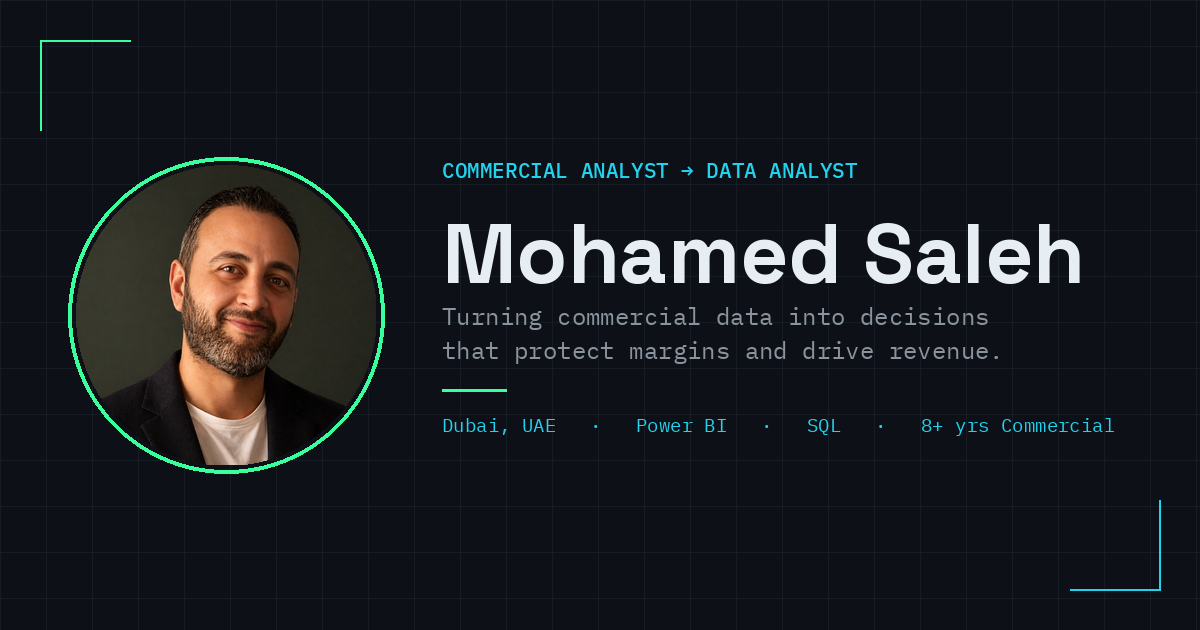
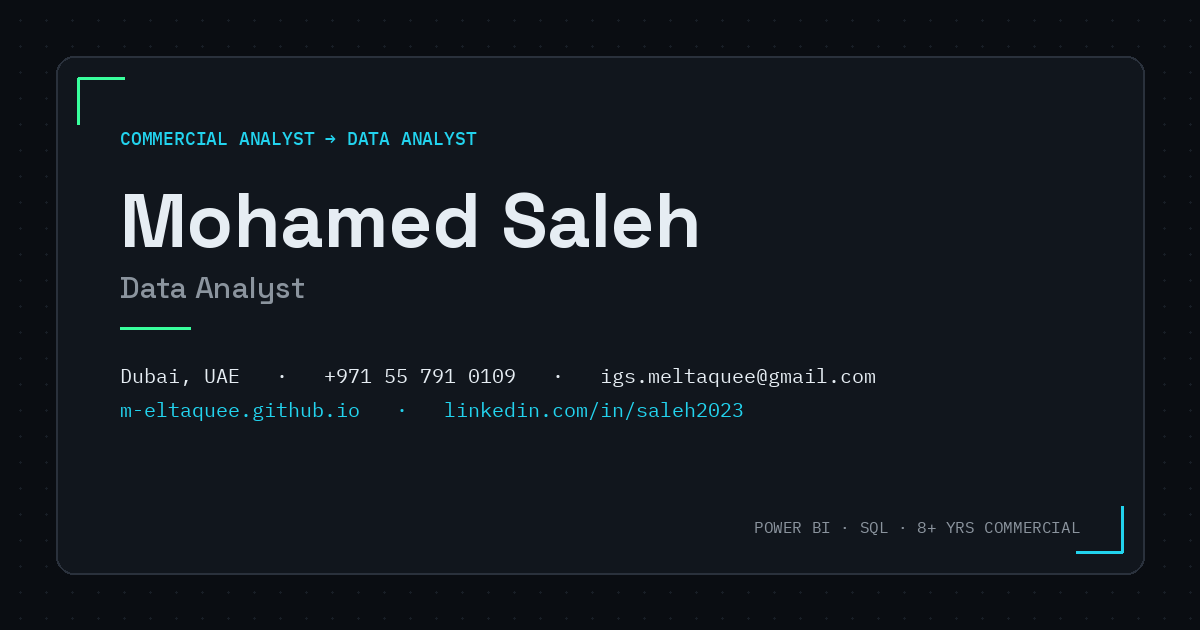
simplify sidebar, business-card OG image

diff --git a/index.html b/index.html
@@ -232,8 +232,7 @@ main{
     <button class="theme-btn" id="themeToggle" aria-label="Toggle theme">◐</button>
     <div class="side-photo"><img src="assets/img/photo_circle.png" alt="Mohamed Saleh"></div>
     <p class="side-name">Mohamed Saleh</p>
-    <p class="side-role">Commercial Analyst → Data Analyst</p>
-    <p class="side-desc">8+ years turning commercial data into decisions across telecom, chemical manufacturing, and luxury retail. Dubai, UAE.</p>
+    <p class="side-role">Data Analyst</p>
 
     <div class="side-socials">
       <a href="mailto:igs.meltaquee@gmail.com" aria-label="Email">@</a>
@@ -241,14 +240,6 @@ main{
       <a href="https://github.com/M-Eltaquee" target="_blank" rel="noopener" aria-label="GitHub">gh</a>
       <a href="tel:+971557910109" aria-label="Phone">☎</a>
     </div>
-
-    <ul class="side-nav" id="sideNav">
-      <li class="active" data-target="about"><button><span class="idx">01</span>About</button></li>
-      <li data-target="experience"><button><span class="idx">02</span>Experience</button></li>
-      <li data-target="skills"><button><span class="idx">03</span>Skills</button></li>
-      <li data-target="projects"><button><span class="idx">04</span>Projects</button></li>
-      <li data-target="contact"><button><span class="idx">05</span>Contact</button></li>
-    </ul>
 
     <div class="side-spacer"></div>
     <a class="btn-cv" href="assets/Mohamed_Saleh_CV.pdf" target="_blank" rel="noopener">↓ Download Resume</a>
@@ -394,20 +385,16 @@ main{
 })();
 
 (function(){
-  const navItems = document.querySelectorAll('#sideNav li');
   const panels = document.querySelectorAll('.acc-item');
 
   function activate(name){
-    navItems.forEach(li => li.classList.toggle('active', li.dataset.target === name));
     panels.forEach(p => p.classList.toggle('active', p.dataset.panel === name));
     if(name === 'skills'){
       document.querySelectorAll('.meter-fill').forEach(f => { f.style.width = f.dataset.w + '%'; });
     }
   }
-  navItems.forEach(li => li.querySelector('button').addEventListener('click', () => activate(li.dataset.target)));
   panels.forEach(p => p.querySelector('.acc-head').addEventListener('click', () => activate(p.dataset.panel)));
 
-  // animate the default open panel's meters if it happens to be skills on load
   activate('about');
 })();
 </script>
